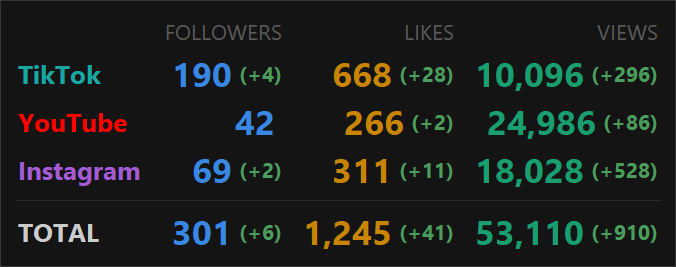
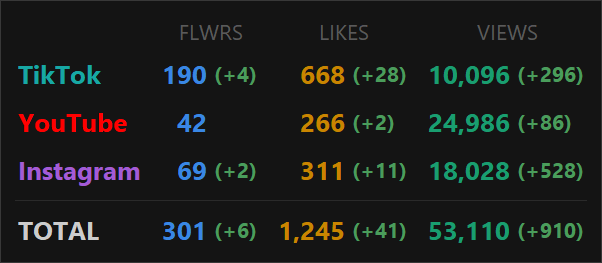
Popup: two-column value/delta alignment, lighter uniform digits, short headers

diff --git a/widget.py b/widget.py
@@ -47,7 +47,12 @@ _METRICS = ("followers", "likes", "views")
 
 # Column headers, keyed by metric. Followers is the anchor column and can never
 # be hidden; likes/views are toggled from the tray "Show" menu.
-_METRIC_LABELS = {"followers": "FOLLOWERS", "likes": "LIKES", "views": "VIEWS"}
+_METRIC_LABELS = {"followers": "FLWRS", "likes": "LIKES", "views": "VIEWS"}
+
+# Value font: the same face, size and weight as the platform names / TOTAL, so
+# the numbers read as one typographic family with their row labels instead of a
+# second, larger typeface stacked beside them.
+_VALUE_FONT = ("Segoe UI", 10, "bold")
 
 _FONT_CANDIDATES = [
     r"C:\Windows\Fonts\arialbd.ttf",
@@ -135,7 +140,7 @@ class _FlipValue(tk.Frame):
             # independently; strip the default label padding/border or each one
             # sits in a few px of dead space and the number reads "1 9 0".
             lbl = tk.Label(self, text=ch, fg=self._color, bg=self._bg,
-                           font=("Segoe UI", 13, "bold"),
+                           font=_VALUE_FONT,
                            padx=0, pady=0, bd=0, highlightthickness=0)
             if self._on_click:
                 lbl.bind("<Button-1>", self._on_click)
@@ -434,11 +439,17 @@ class SocialWidget:
         body.pack(fill="both", expand=True)
 
         def head(text, col):
+            # Span the value+delta pair and centre over it. Left in the value
+            # column alone the header ("FOLLOWERS") would stretch that column far
+            # wider than the digits, stranding the numbers off at its right edge
+            # with a lake of empty space between them and the platform names.
             tk.Label(body, text=text, fg="#5a5a5a", bg="#141414",
-                     font=("Segoe UI", 8)).grid(row=0, column=col, padx=(18, 0), sticky="e")
+                     font=("Segoe UI", 8)).grid(row=0, column=col, columnspan=2,
+                                                padx=(18, 0))
 
-        for i, metric in enumerate(self._visible_metrics(), start=1):
-            head(_METRIC_LABELS[metric], i)
+        # Each metric spans two columns (value, delta); the header sits over both.
+        for i, metric in enumerate(self._visible_metrics()):
+            head(_METRIC_LABELS[metric], 1 + 2 * i)
 
         self._popup_rows = {}
         r = 1
@@ -452,21 +463,21 @@ class SocialWidget:
             # identity — painting its numbers too made three saturated hues
             # fight across every row.
             self._popup_rows[p.name] = {
-                metric: self._cell(body, _rgb(ink), r, i)
-                for i, (metric, ink) in enumerate(self._metric_inks(), start=1)
+                metric: self._cell(body, _rgb(ink), r, 1 + 2 * i)
+                for i, (metric, ink) in enumerate(self._metric_inks())
             }
             r += 1
 
         tk.Frame(body, bg="#2a2a2a", height=1).grid(
-            row=r, column=0, columnspan=len(self._visible_metrics()) + 1,
+            row=r, column=0, columnspan=1 + 2 * len(self._visible_metrics()),
             sticky="ew", pady=(7, 7))
         r += 1
 
         tk.Label(body, text="TOTAL", fg="#cccccc", bg="#141414",
                  font=("Segoe UI", 10, "bold"), anchor="w").grid(row=r, column=0, sticky="w")
         self._popup_totals = {
-            metric: self._cell(body, _rgb(ink), r, i)
-            for i, (metric, ink) in enumerate(self._metric_inks(), start=1)
+            metric: self._cell(body, _rgb(ink), r, 1 + 2 * i)
+            for i, (metric, ink) in enumerate(self._metric_inks())
         }
 
         self._popup_win = win
@@ -496,14 +507,16 @@ class SocialWidget:
         return [(m, colors[m]) for m in self._visible_metrics()]
 
     def _cell(self, parent, ink: str, row: int, column: int):
-        """One value plus the delta that trails it, as a single grid cell."""
-        wrap = tk.Frame(parent, bg="#141414")
-        wrap.grid(row=row, column=column, sticky="e", padx=(18, 0))
-        flip = _FlipValue(wrap, ink, on_click=self._reset_baselines)
-        flip.pack(side="left")
-        delta = tk.Label(wrap, text="", fg=_DELTA_UP, bg="#141414",
+        """One counter as two grid columns: the value (right-aligned) and the
+        delta chip beside it (left-aligned in the next column). Splitting them
+        keeps every number in a column sharing one right edge — a row with no
+        delta no longer shoves its number sideways to make room for a "(+12)"
+        that isn't there."""
+        flip = _FlipValue(parent, ink, on_click=self._reset_baselines)
+        flip.grid(row=row, column=column, sticky="e", padx=(18, 0))
+        delta = tk.Label(parent, text="", fg=_DELTA_UP, bg="#141414",
                          font=("Segoe UI", 8, "bold"))
-        delta.pack(side="left", padx=(4, 0))
+        delta.grid(row=row, column=column + 1, sticky="w", padx=(4, 0))
         return flip, delta
 
     def _bind_reset(self, widget):